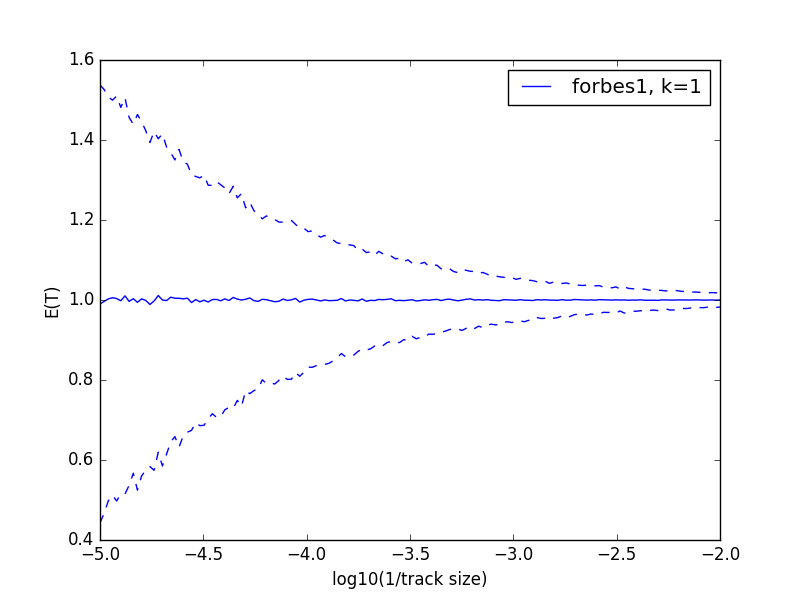
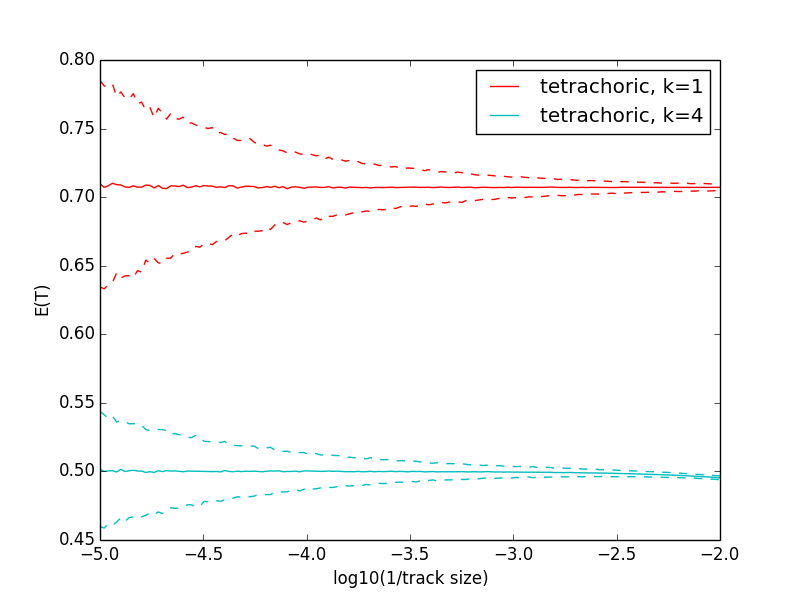
test

diff --git a/simulation_bias.py b/simulation_bias.py
@@ -230,6 +230,7 @@ if __name__=="__main__":
     stat_names_in_groups = [["forbes1"], ["tetrachoric"]]#, "jaccard"]]
 
 
+
     FOLDER = "mean_and_vars"
     k_counter = 0 # Global
 
@@ -238,7 +239,7 @@ if __name__=="__main__":
         legends = []
         axes = []
         #for k in [1, 2, 4, 8]:
-        for k in [1]:
+        for k in [1, 4]:
             ax = simulate_stat_names_group(group, k=k, n_sim = 500  )
             k_counter += 1
             axes += ax
